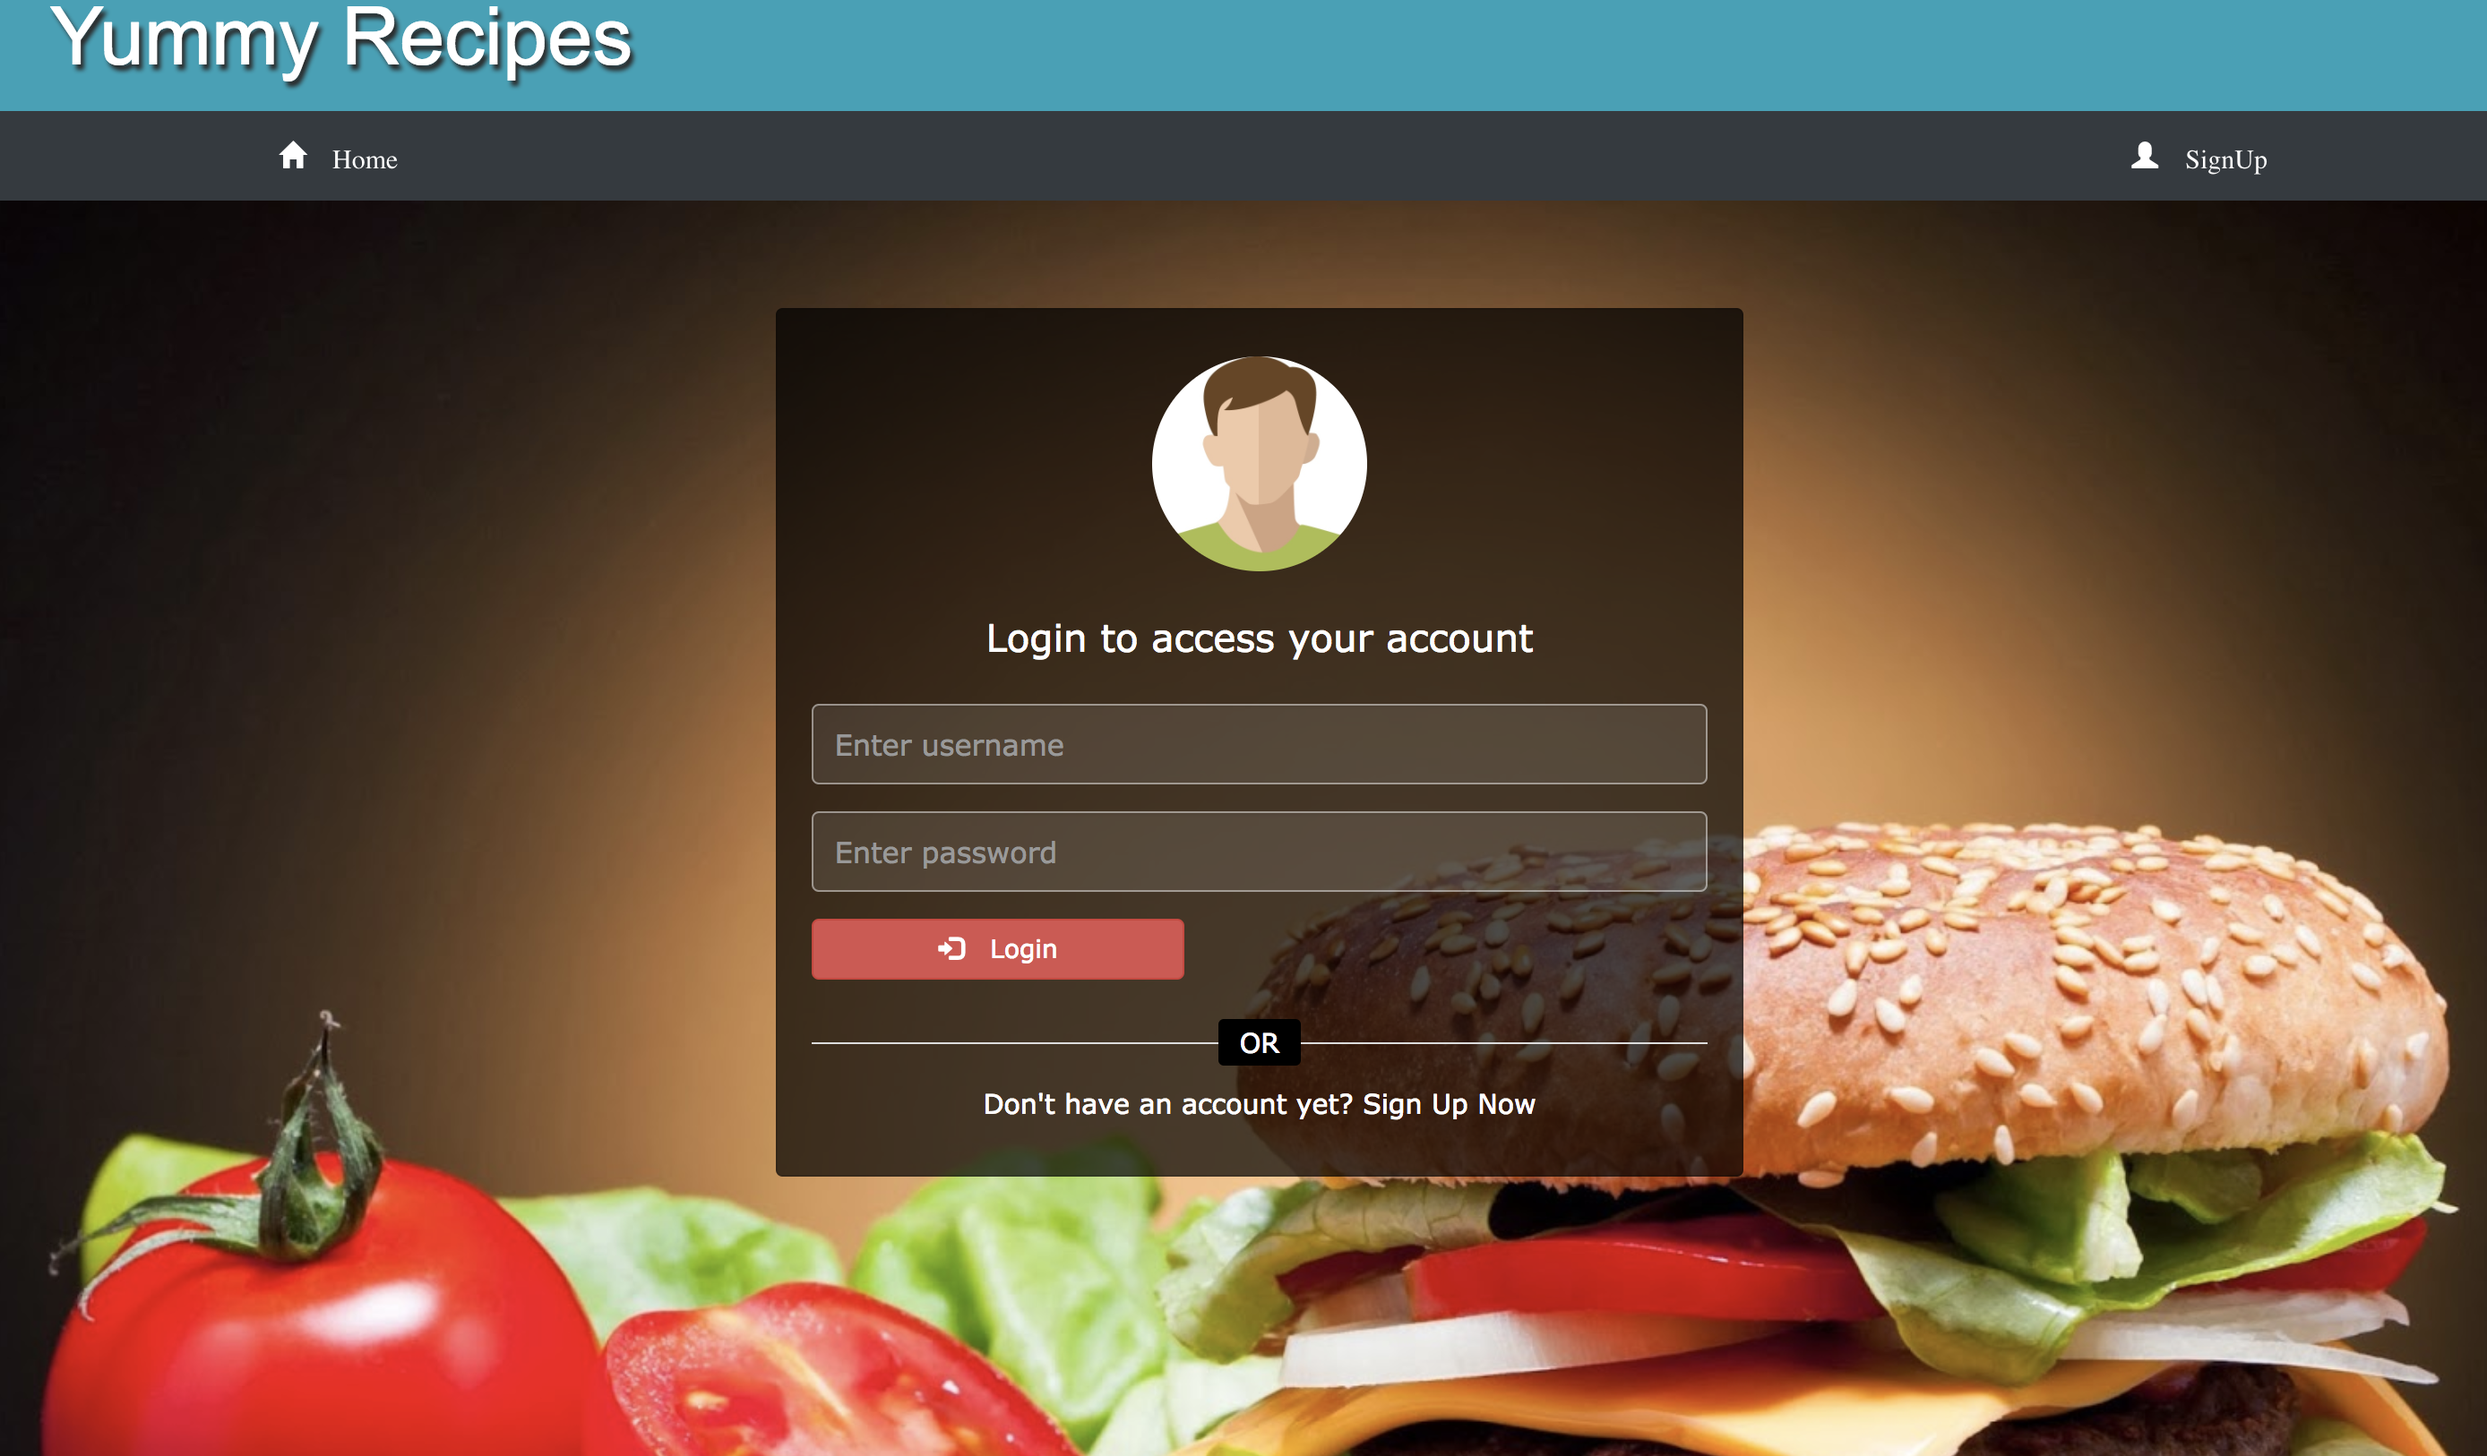
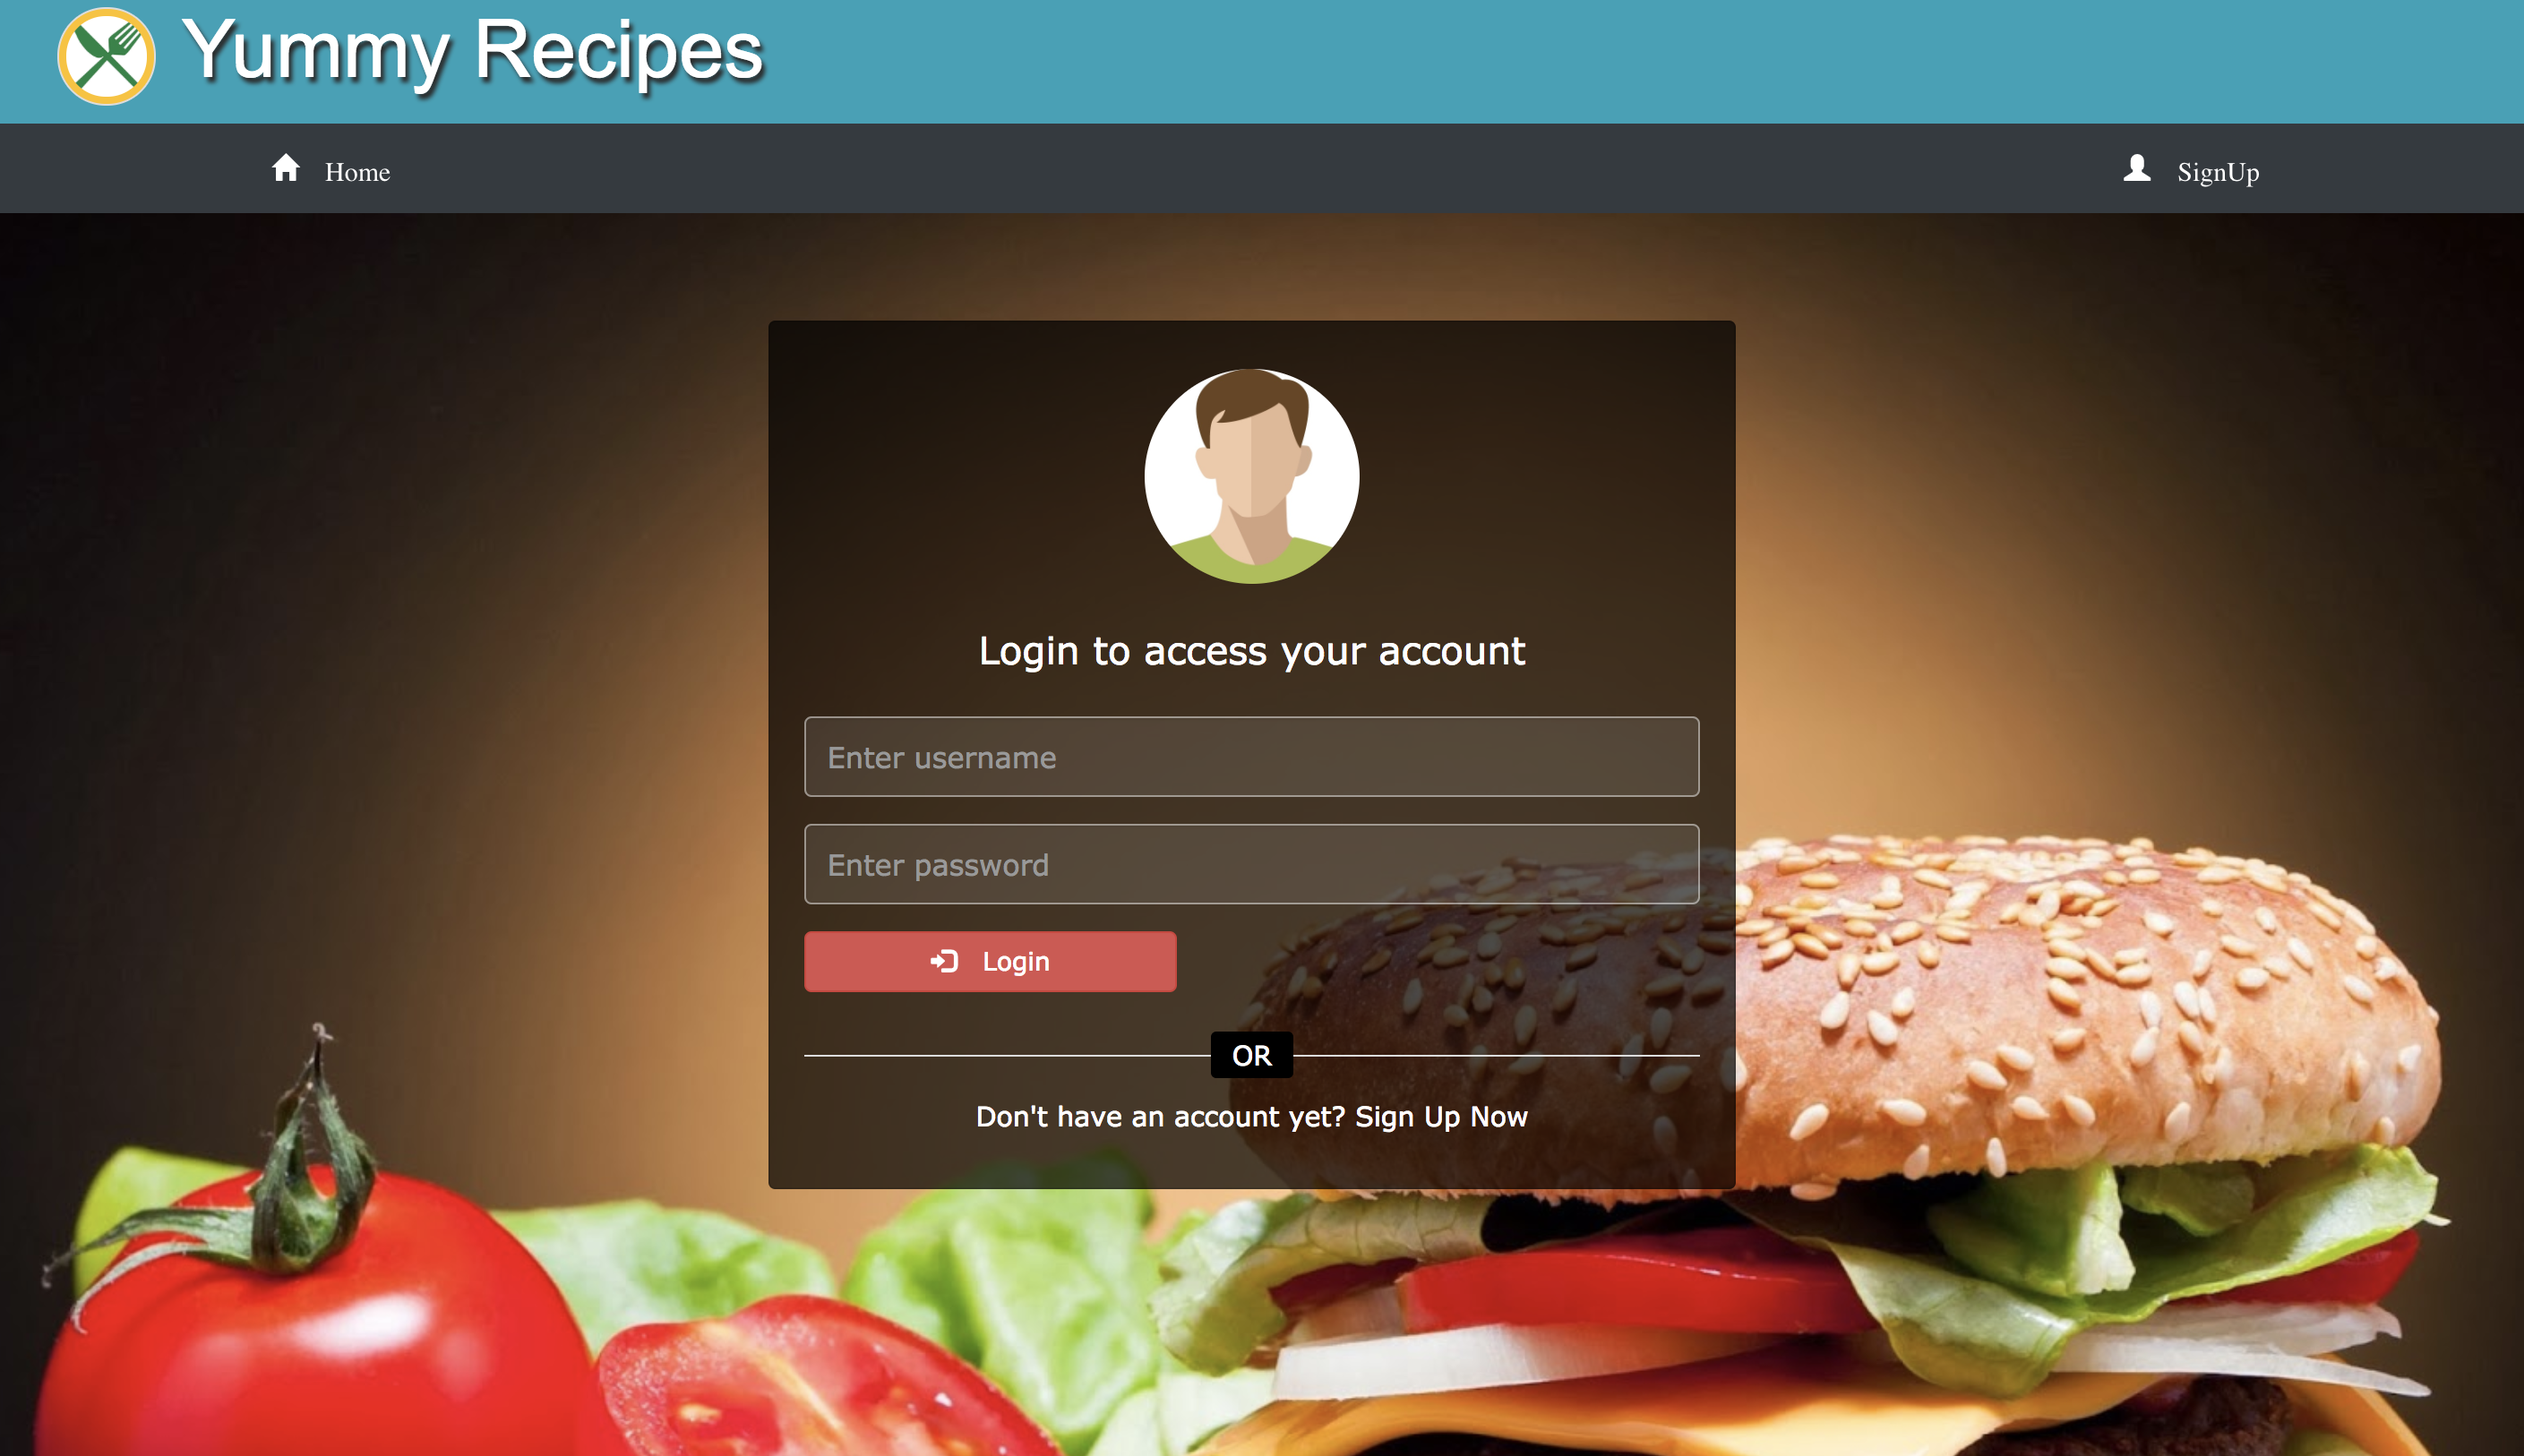
[Chore] login and signup files

Changed region(s): [[0.0, 0.1845, 0.9914, 1.0], [0.0, 0.0, 1.0, 0.1538], [0.3718, 0.4305, 0.6196, 0.4613]]

diff --git a/src/app/components/user/Signup.js b/src/app/components/user/Signup.js
@@ -1,6 +1,7 @@
 import React, { Component } from 'react';
 import { NavLink } from 'react-router-dom';
 
+import logo from '../../static/img/logo.jpg';
 import * as User from '../../controller/User';
 import '../../static/css/style.css';
 import { Footer } from '../home/Footer';
@@ -10,7 +11,10 @@ export class Signup extends Component {
     return (
       <div>
         <div className="bg-info w3-bar m-0 pb-2">
-          <span className="name p-5"> Yummy Recipes</span>
+          <span className="name p-5">
+            <img className="img-thumbnail logo mr-3 ml-2 bg-warning" src={logo} alt="logo" />
+            Yummy Recipes
+          </span>
         </div>
         <nav className="w3-bar navbar-expand-lg navbar-dark bg-dark ">
           <div className="w3-bar m-0 text-center">

diff --git a/src/app/components/user/Login.js b/src/app/components/user/Login.js
@@ -1,6 +1,7 @@
 import React, { Component } from 'react';
 import { NavLink } from 'react-router-dom';
 
+import logo from '../../static/img/logo.jpg';
 import pic1 from '../../static/img/head.jpg';
 import '../../static/css/style.css';
 import { Footer } from '../home/Footer';
@@ -11,7 +12,10 @@ export class Login extends Component {
     return (
       <div>
         <div className="bg-info w3-bar m-0 pb-2">
-          <span className="name p-5"> Yummy Recipes</span>
+          <span className="name p-5">
+            <img className="img-thumbnail logo mr-3 ml-2 bg-warning" src={logo} alt="logo" />
+            Yummy Recipes
+          </span>
         </div>
         <nav className="w3-bar navbar-expand-lg navbar-dark bg-dark ">
           <div className="w3-bar m-0 text-center">
